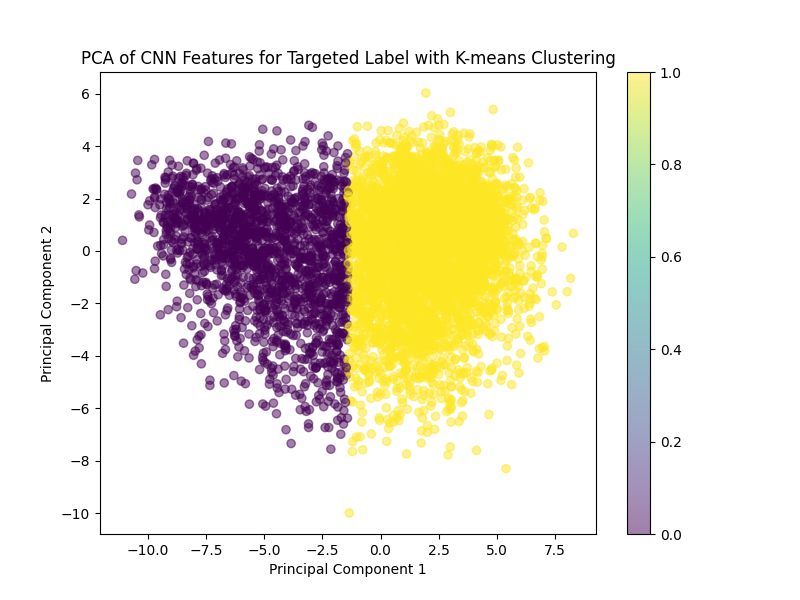
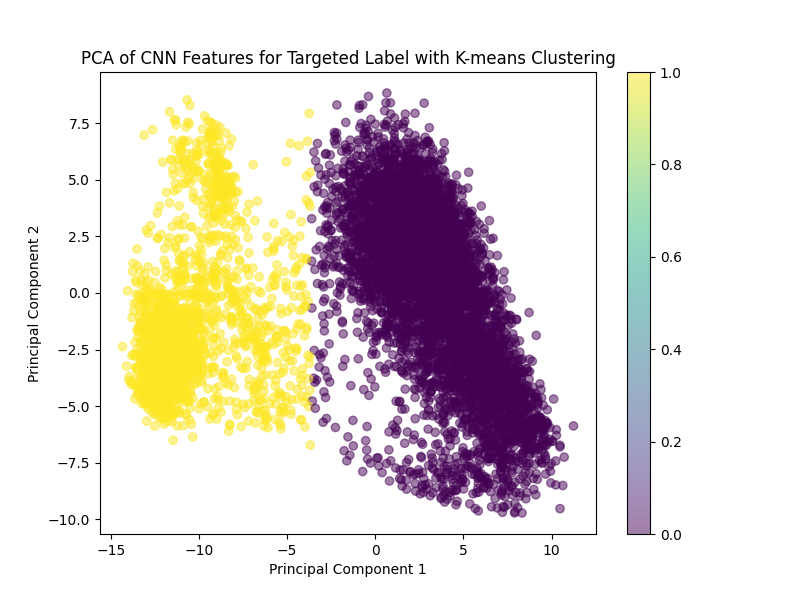
add cnf based trigger exclusion

diff --git a/fl_client_checked.py b/fl_client_checked.py
@@ -615,13 +615,50 @@ class FlowerClient(fl.client.NumPyClient):
             smallest_cluster_indices = np.where(cluster_labels == smallest_cluster_label)[0]
 
             # Convert the smallest cluster indices to their original dataset indices
+            # smallest_cluster_dataset_indices = [original_indices[i] for i in smallest_cluster_indices]
+            # indices_to_exclude = set(smallest_cluster_dataset_indices)
+
+
+            local_net.eval()
+            net.eval()
+
+            with torch.no_grad():
+                # Get predictions from local_net
+                local_outputs = local_net(targeted_images)
+                local_confidences = F.softmax(local_outputs, dim=1)  # Apply softmax to get probabilities
+                local_max_confidences, local_predicted_labels = torch.max(local_confidences, dim=1)
+
+                # Get predictions from net
+                global_outputs = net(targeted_images)
+                global_confidences = F.softmax(global_outputs, dim=1)
+                global_max_confidences, global_predicted_labels = torch.max(global_confidences, dim=1)
+
+            # Initialize indices_to_exclude with smallest cluster indices
             smallest_cluster_dataset_indices = [original_indices[i] for i in smallest_cluster_indices]
             indices_to_exclude = set(smallest_cluster_dataset_indices)
+
+            # Add samples based on confidence score comparison
+            confidence_threshold = 0.8  # Define a threshold for low confidence
+
+            n_excluded_through_cnf = 0
+            for idx in range(len(targeted_images)):
+                # if local_max_confidences[idx] < confidence_threshold and local_predicted_labels[idx] != global_predicted_labels[idx]:
+                #     indices_to_exclude.add(original_indices[idx])
+                #     n_excluded_through_cnf+=1
+                if local_predicted_labels[idx] != global_predicted_labels[idx]:
+                    indices_to_exclude.add(original_indices[idx])
+                    n_excluded_through_cnf+=1
+                elif np.abs(global_max_confidences[idx] - local_max_confidences[idx]) > 0.2 :
+                    indices_to_exclude.add(original_indices[idx])
+                    n_excluded_through_cnf+=1
+            
+            print(f"exlcuded by cnf: {n_excluded_through_cnf}")
 
             # Check how many of the smallest cluster indices are in triggered_indices
             # Assuming triggered_indices are defined and correspond to actual triggered samples
             actual_triggered_indices = set(triggered_indices)  # Replace this with your actual triggered indices
-            triggered_found_indices = set(smallest_cluster_dataset_indices) & actual_triggered_indices
+            #triggered_found_indices = set(smallest_cluster_dataset_indices) & actual_triggered_indices
+            triggered_found_indices = indices_to_exclude & actual_triggered_indices
             num_actual_triggered_found = len(triggered_found_indices)
 
             print(f"Number of actual triggered samples found in the smallest cluster: {num_actual_triggered_found} out of {len(actual_triggered_indices)}")
@@ -654,7 +691,7 @@ class FlowerClient(fl.client.NumPyClient):
                 train_dataset = trainloader.dataset
                 keep_indices = [i for i in range(len(train_dataset)) if i not in indices_to_exclude]
                 filtered_train_dataset = torch.utils.data.Subset(train_dataset, keep_indices)
-                triggered_train_dataset = torch.utils.data.Subset(train_dataset, indices_to_exclude)
+                triggered_train_dataset = torch.utils.data.Subset(train_dataset, list(indices_to_exclude))
 
                 trainloader_filtered = torch.utils.data.DataLoader(filtered_train_dataset, batch_size=trainloader.batch_size, shuffle = False)
                 trainloader_triggered = torch.utils.data.DataLoader(triggered_train_dataset, batch_size = trainloader.batch_size, shuffle = False)
@@ -680,7 +717,7 @@ class FlowerClient(fl.client.NumPyClient):
             trainloader_filtered, trainloader_triggered = create_filtered_trainloader()
             self.set_parameters(parameters)
             train(net, trainloader_filtered, epochs=1)
-            train(local_net, trainloader_triggered, epochs=1)
+            train(local_net, trainloader, epochs=1)
             return self.get_parameters(config={}), len(trainloader_filtered.dataset), {}
             #trainloader = trainloader_filtered
 
